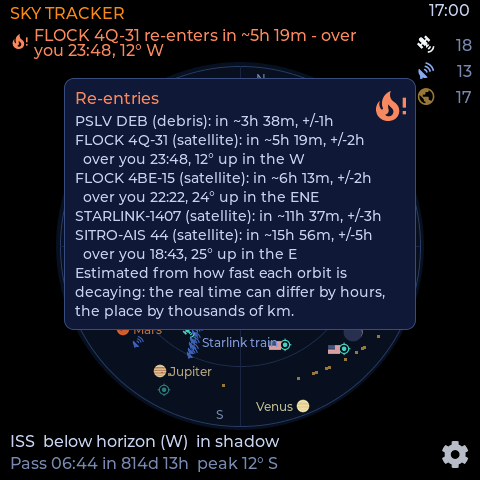
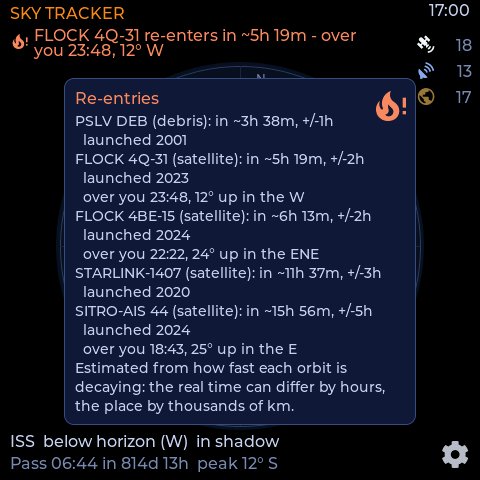
Re-entry card shows each object's launch year (UI-74)

Changed region(s): [[0.125, 0.2812, 0.875, 0.9062]]

diff --git a/components/sky_tracker/sat_tracker.h b/components/sky_tracker/sat_tracker.h
@@ -4991,6 +4991,9 @@ inline void info_card_update(double t) {
         k += snprintf(body + k, sizeof(body) - k, "%s%s (%s): %s%s, +/-%.0fh", k ? "\n" : "", d.name,
                       d.rb ? "rocket stage" : d.deb ? "debris" : "satellite", d.est > t ? "in ~" : "", in,
                       std::max(1.0f, d.unc_h));
+        int ly = 0;  // the launch year, from the international designator (the feed has no exact date)
+        if (sscanf(d.intl, "%d-", &ly) == 1 && ly >= 1957 && k < (int) sizeof(body))
+          k += snprintf(body + k, sizeof(body) - k, "\n  launched %d", ly);
         if (d.over_el >= 10 && d.over_t > t && k < (int) sizeof(body)) {
           local_hm((int64_t) d.over_t, h0, sizeof(h0));
           k += snprintf(body + k, sizeof(body) - k, "\n  over you %s, %.0f\xC2\xB0 up in the %s", h0, d.over_el, d.over_dir);

diff --git a/docs/requirements.md b/docs/requirements.md
@@ -1,7 +1,7 @@
 # Sky Tracker — Design Requirements (rev 4.5)
 
 ## Changes in rev 4.5
-- 4.6.40 (unreleased): the update prompt's release notes use the 16 px font (they were blurry at 12 px).
+- 4.6.40 (unreleased): each re-entry on its card shows the launch year (UI-74); the update prompt's release notes use the 16 px font (they were blurry at 12 px).
 - 4.6.39 (released): the constellation figures and the highlight are drawn above the rings and cross lines (UI-46d).
 - 4.6.38 (released): touching a constellation's figure on the map shows its details (UI-46c).
 - 4.6.37 (installed): the object a star, deep-sky, radiant or constellation card is for is lit on the map: a ring, or the constellation's whole figure in gold (UI-50b, UI-46b). the list has a Close button and scrolls in a box under the title row, never under Close (UI-10c); the row lines no longer go missing in patches as cells change (UI-10d). the list shows the named stars and the major constellations above the horizon, and a tap opens their cards (UI-10b). the firmware check no longer fails with "sock < 0" or "esp-aes: Failed to allocate memory" when the data task is on the network: it drops its kept connection and waits while the check runs (NET-14). A new Moon is drawn under the Sun's halo instead of in front of it (UI-6a).
@@ -723,7 +723,8 @@ UI-74  Re-entries (CelesTrak SPECIAL=DECAYING CSV, ~17 KB, every 6 h, after the 
        comes down (SGP4, 60 s steps). The status line shows a rocket stage or satellite (not
        debris) due within 24 h, one passing 10 deg or more over the observer first, mdi:fire-alert
        in 0xFF8A65: "FLOCK 4Q-31 re-enters in ~5h 19m - over you 23:48, 12 deg W". Its card lists
-       up to five (debris too) and says how rough the estimates are. Switch Re-entry Alerts (on).
+       up to five (debris too), each with its launch year (from the international designator), and
+       says how rough the estimates are. Switch Re-entry Alerts (on).
        (The Aerospace Corporation refuses automated requests; ESA's predictions need an account.)
 UI-75  All-sky camera: the University of Alaska Fairbanks Geophysical Institute's Poker Flat camera
        (allsky.gi.alaska.edu): its live feed (src/checkLive.php?cam=poker-flat, an event stream: the
